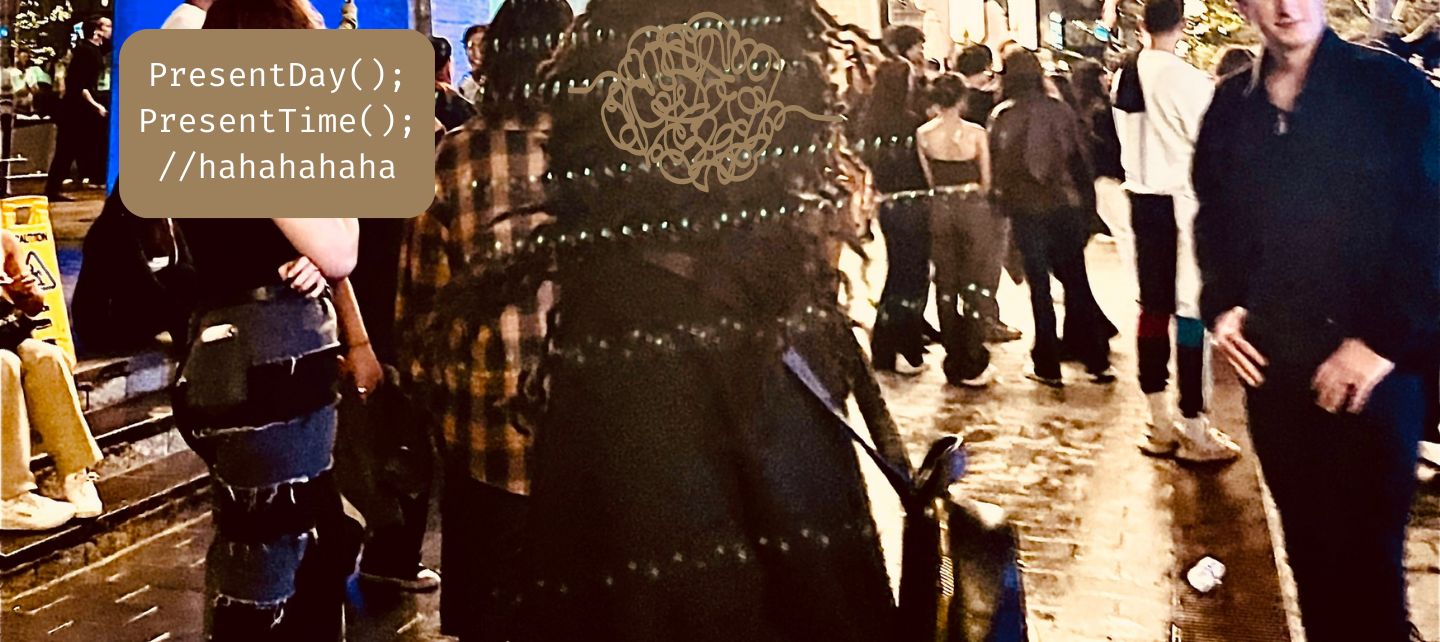
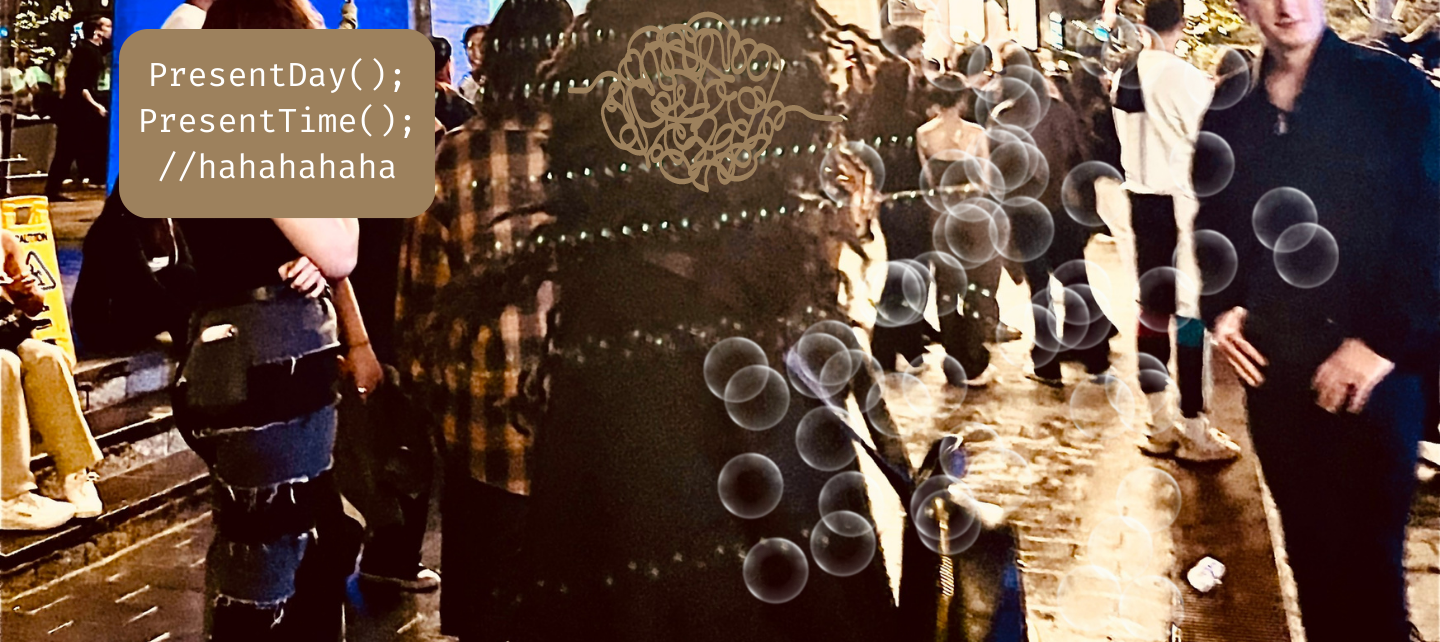
hero background changes

diff --git a/assets/css/custom.css b/assets/css/custom.css
@@ -71,3 +71,5 @@
     transition: transform 0.5s ease-out;
     transform-origin: left;
 }
+
+/*  Bubble Animation */
